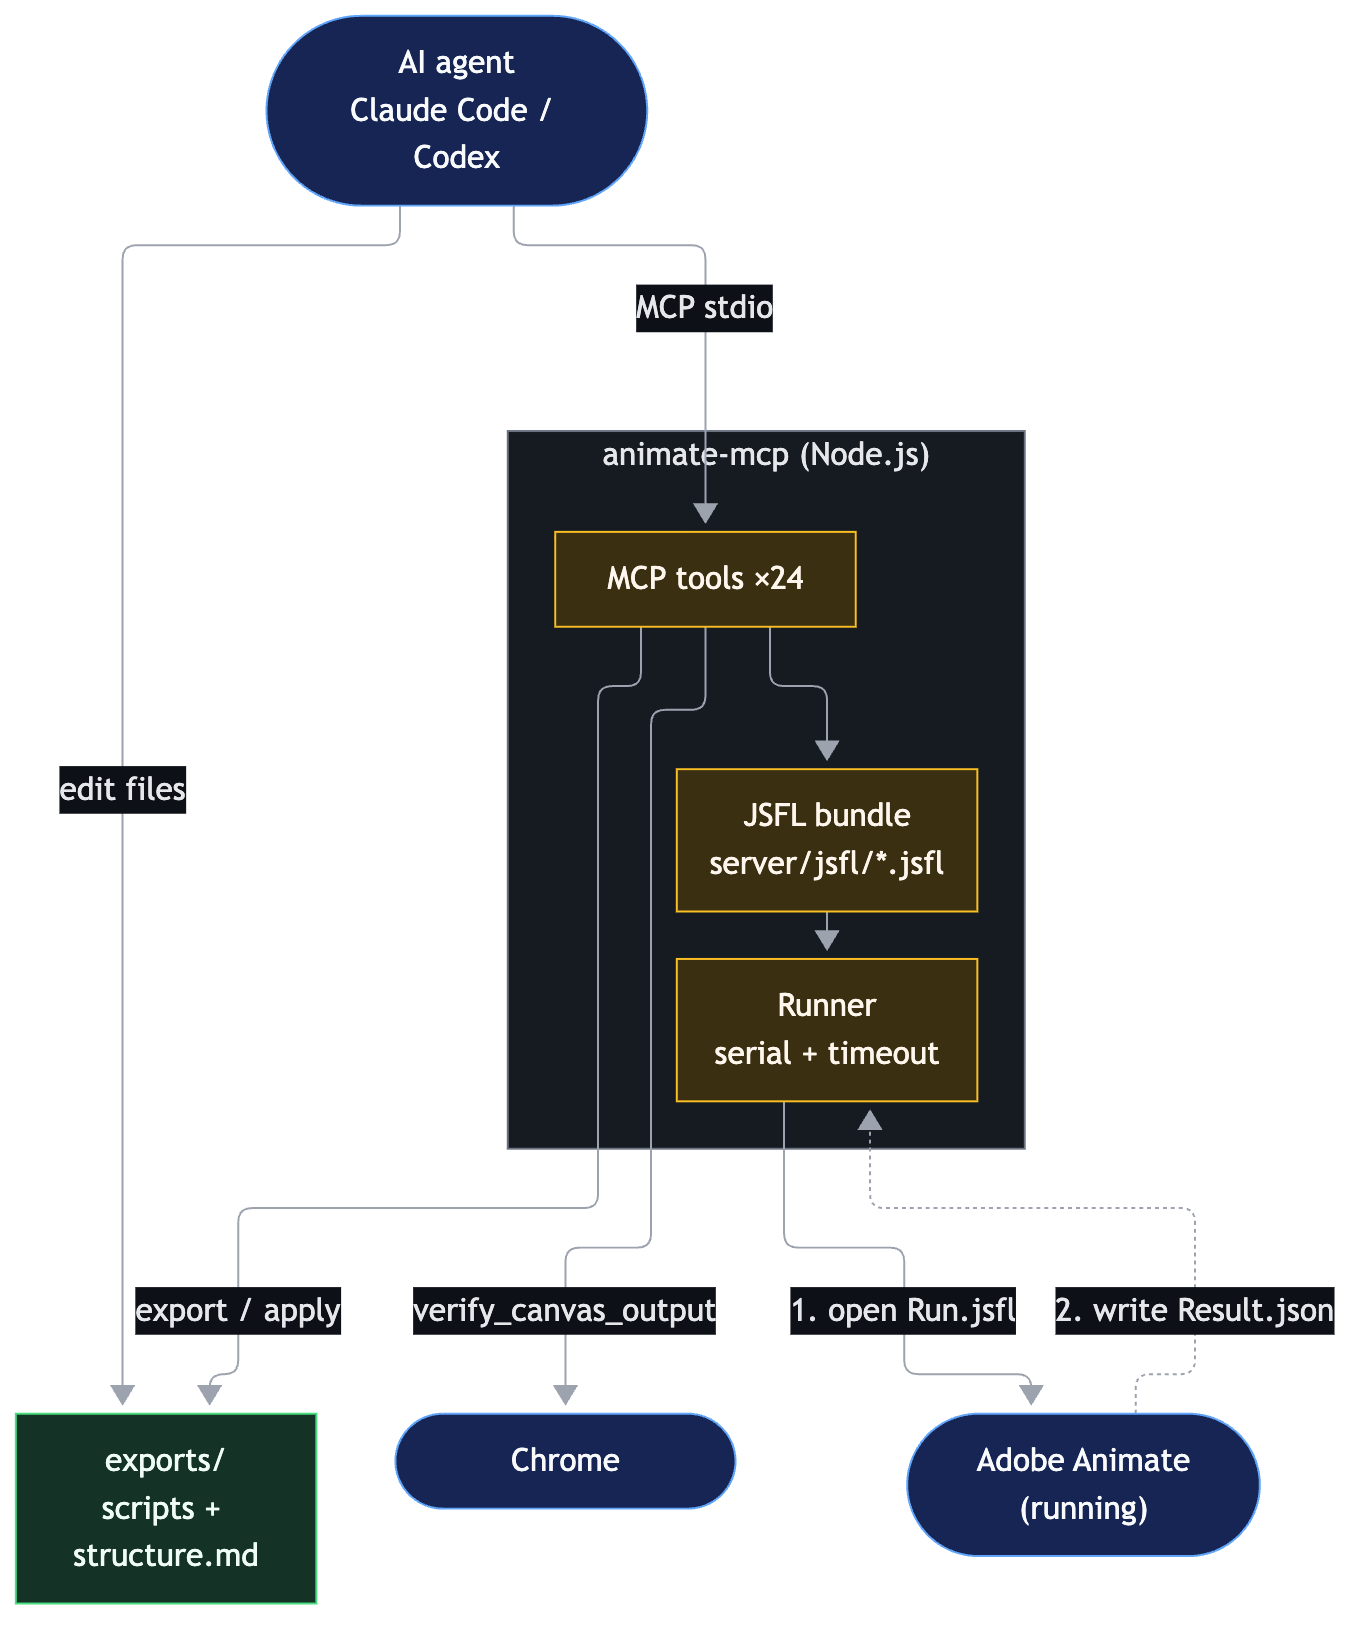
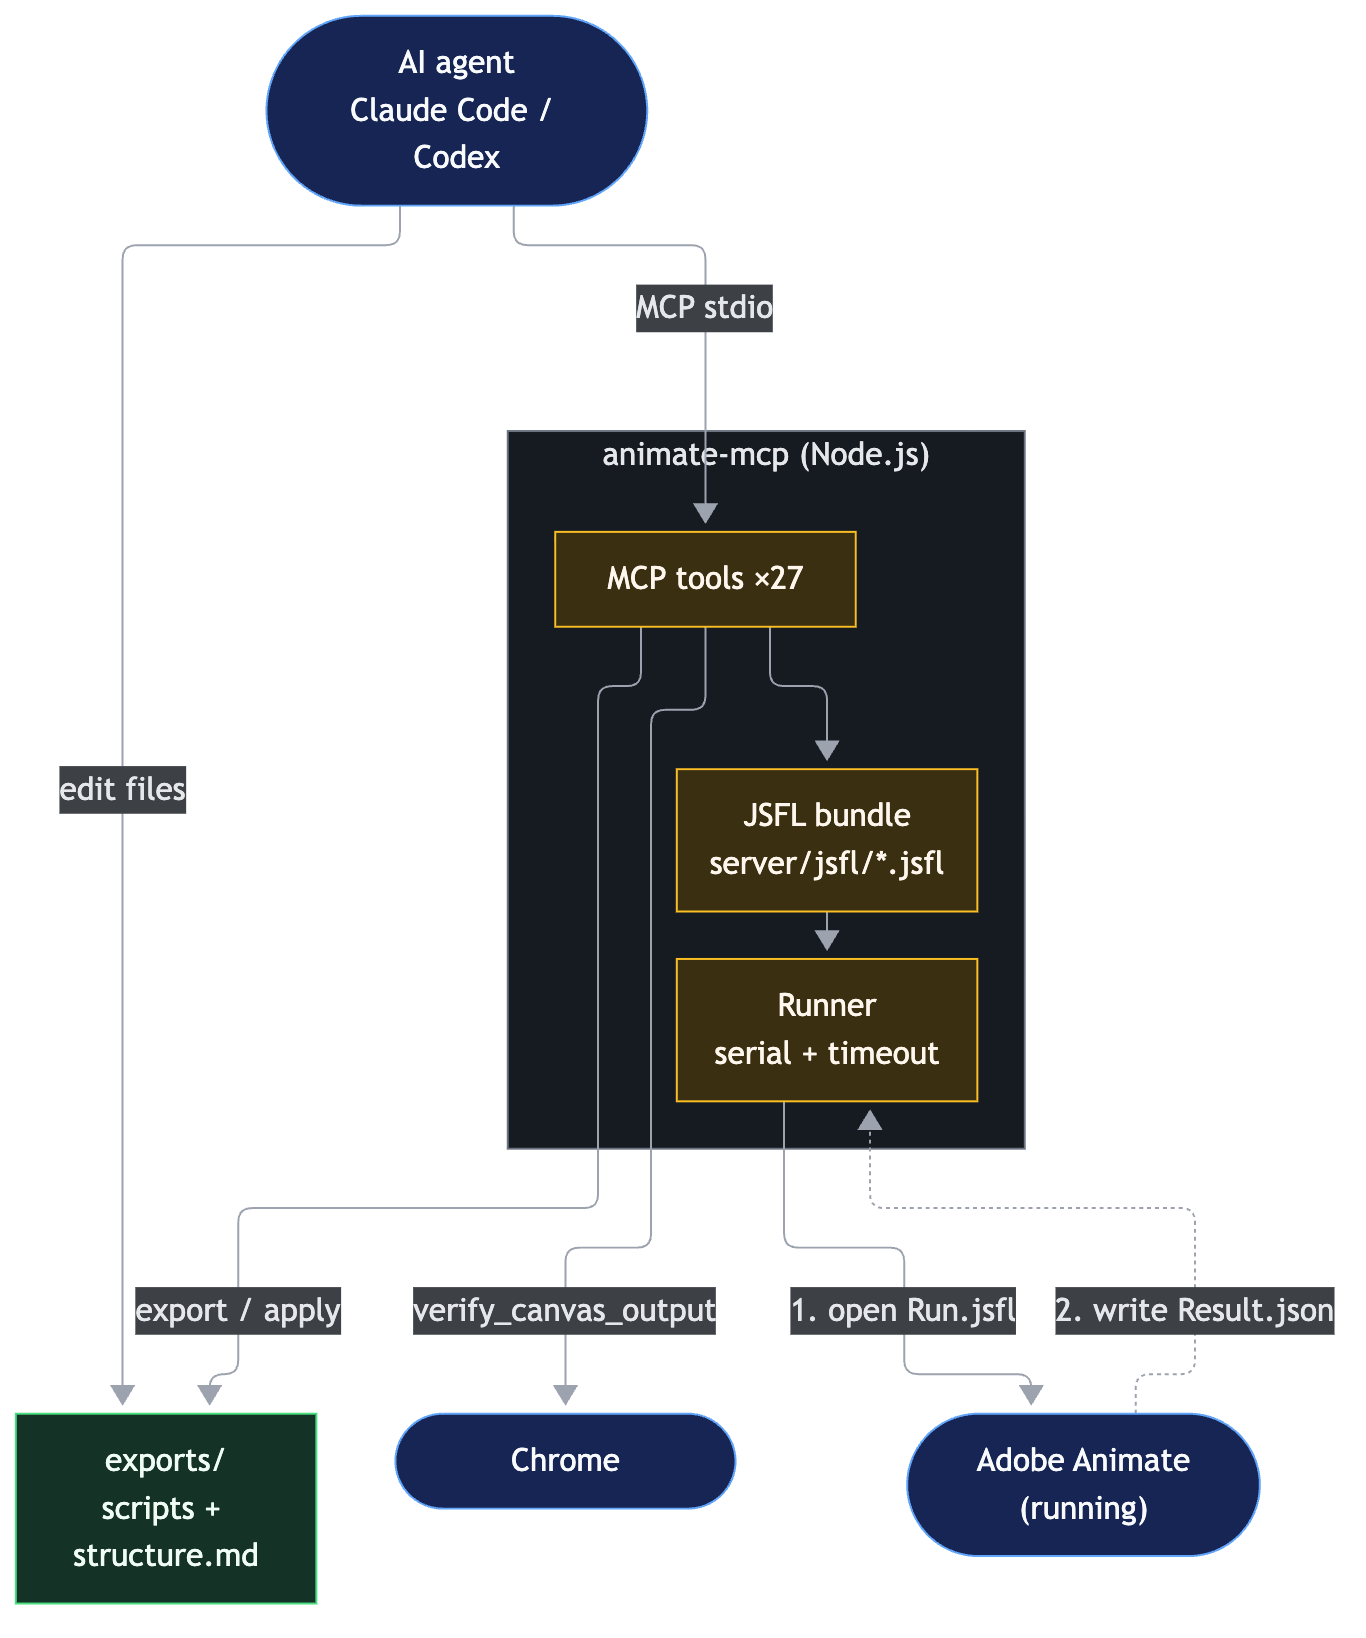
📝 docs(readme): center theme-aware architecture diagrams

diff --git a/README.md b/README.md
@@ -236,26 +236,12 @@ Full inputs and caveats are in [TOOLS.md](TOOLS.md).
 
 ## How it works
 
-```mermaid
-%%{init: {'themeVariables': {'fontSize': '13px'}, 'flowchart': {'nodeSpacing': 30, 'rankSpacing': 30, 'diagramPadding': 8}}}%%
-flowchart TB
-  Agent(["AI agent<br/>Claude Code / Codex"])
-  subgraph Server["animate-mcp (Node.js)"]
-    Tools["MCP tools ×27"]
-    Bundle["JSFL bundle<br/>server/jsfl/*.jsfl"]
-    Runner["Runner<br/>serial + timeout"]
-  end
-  Files["exports/<br/>scripts + structure.md"]
-  Chrome(["Chrome"])
-  Animate(["Adobe Animate<br/>(running)"])
-  Agent -->|"edit files"| Files
-  Agent -->|"MCP stdio"| Tools
-  Tools -->|"export / apply"| Files
-  Tools -->|"verify_canvas_output"| Chrome
-  Tools --> Bundle --> Runner
-  Runner -->|"1. open Run.jsfl"| Animate
-  Animate -.->|"2. write Result.json"| Runner
-```
+<div align="center">
+  <picture>
+    <source media="(prefers-color-scheme: dark)" srcset="assets/architecture-dark.png">
+    <img src="assets/architecture-light.png" alt="Architecture: AI agent, MCP tools, JSFL runner, Adobe Animate and Chrome" width="560">
+  </picture>
+</div>
 
 Each tool builds a JSFL script, writes it to `~/.animate-mcp/runs/`, and opens it in the running Animate. The script writes its result as JSON, which the server reads back. Runs are serialized and time out if Animate does not respond.
 
